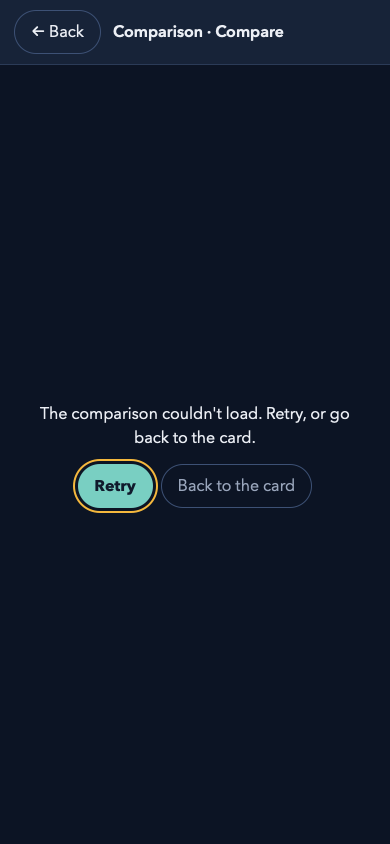
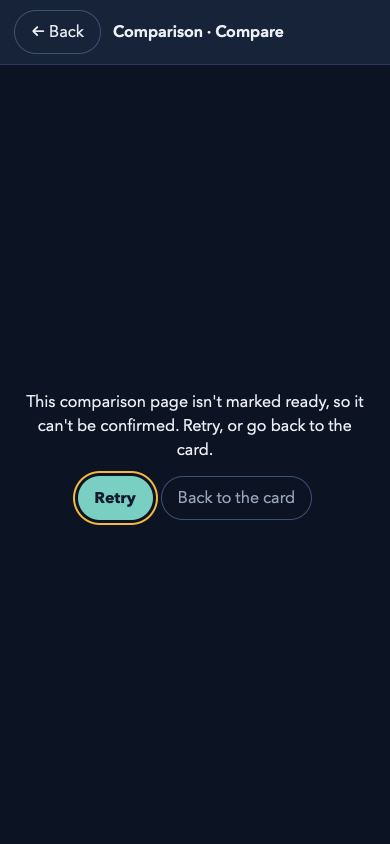
fix(audio-dashboard): use an explicit ready marker as WebKit comparison evidence
Review r1 on #987: the chart heuristic could be bypassed (a figure wrapping an
icon, a 25 px mark, visibility:hidden) and it rejected a real chart inside a
link. Replace the heuristic with an explicit marker. Without responseStatus,
success needs a readable same-origin frame whose page carries
<meta name="adash-comparison" content="ready"> or data-adash-comparison="ready"
on <html>. An error page never has the marker. Chromium keeps its 2xx/3xx
status rule. chartVisual and its exclusions are gone.

markComparisonReady() adds the marker to generated pages. build-dashboard
fails on a local comparison page without it, and SKILL.md and card-format.md
require it, with a one-line snippet.

Changed region(s): [[0.0615, 0.4621, 0.9231, 0.6469]]

diff --git a/skills/golem-powers/audio-dashboard/templates/decision-flow/decision-flow.js b/skills/golem-powers/audio-dashboard/templates/decision-flow/decision-flow.js
@@ -264,26 +264,18 @@
     return /[\u0000-\u001f\u007f]/.test(value)||/^\s*[\\/]/.test(value)||!inside?"":url.href;
   }
   // Browsers fire load, not error, for network failures and HTTP errors, so a load proves nothing alone.
-  // Success needs positive evidence from a readable same-origin frame: a navigation entry with a 2xx/3xx
-  // responseStatus where the browser reports one, or (WebKit has no responseStatus) a visual in the page.
-  // Anything else, including an unreadable file: frame, is a failure with Retry and Back.
-  // WebKit evidence must be a chart, not an icon. Mirrors the ADX-1 evidence gate's isControlIcon (a Node-side
-  // HTMLRewriter check that cannot run here): marks inside controls, hidden or presentational marks, icon/glyph
-  // classes, and anything rendered at 24x24 px or smaller do not count.
-  function chartVisual(doc){
-    return Array.prototype.some.call(doc.querySelectorAll("svg, canvas, img, figure, video"),function(node){
-      if(node.closest('[aria-hidden="true"], [role="presentation"], [role="none"], button, a, summary, [role="button"]'))return false;
-      for(var n=node;n&&n.nodeType===1;n=n.parentElement){if((n.getAttribute("class")||"").split(/\s+/).some(function(token){return /^(icon|glyph)([-_]|$)|[-_](icon|glyph)$/i.test(token);}))return false;}
-      var box=node.getBoundingClientRect();return box.width>24||box.height>24;
-    });
-  }
+  // Success needs positive evidence from a readable same-origin frame: a 2xx/3xx navigation responseStatus where
+  // the browser reports one, or, where it does not (WebKit), the page's explicit ready marker
+  // (<meta name="adash-comparison" content="ready"> or data-adash-comparison="ready" on <html>), which an
+  // error page never carries. Anything else, including an unreadable file: frame, is a failure.
+  function comparisonReady(doc){var meta=doc.querySelector('meta[name="adash-comparison"]');return Boolean(meta&&meta.getAttribute("content")==="ready")||doc.documentElement.getAttribute("data-adash-comparison")==="ready";}
   function frameProblem(frame){
     var failed=document.location.protocol==="file:"?"This comparison can't be checked from a file. Open the dashboard over http(s), or go back to the card.":"The comparison couldn't load. Retry, or go back to the card.";
     var timing=document.defaultView&&document.defaultView.PerformanceResourceTiming,reportsStatus=Boolean(timing&&"responseStatus" in timing.prototype);
     try{
       var child=frame.contentWindow;if(!child||child.location.href==="about:blank")return failed;
       if(reportsStatus){var nav=child.performance.getEntriesByType("navigation")[0],status=nav&&nav.responseStatus;return typeof status==="number"&&status>=200&&status<400?"":failed;}
-      return chartVisual(child.document)?"":failed;
+      return comparisonReady(child.document)?"":"This comparison page isn't marked ready, so it can't be confirmed. Retry, or go back to the card.";
     }catch(error){return failed;}
   }
   function loadCompare(){

diff --git a/skills/golem-powers/audio-dashboard/references/card-format.md b/skills/golem-powers/audio-dashboard/references/card-format.md
@@ -55,9 +55,14 @@ frame, and a late event from an earlier attempt is ignored.
 
 Browsers fire `load` for 404s and network failures, so a load alone is not
 success. The page must be readable and same-origin, and show a 2xx/3xx
-`responseStatus`, or contain a chart where the browser reports no status
-(WebKit). A comparison page should therefore carry its chart as svg, canvas,
-img, figure or video, as the View details gate already requires. Icons do not
-count: aria-hidden or presentational marks, marks inside buttons or links,
-icon/glyph classes, and anything 24x24 px or smaller. From a
+`responseStatus`, or, where the browser reports no status (WebKit), carry the
+ready marker. Every comparison page, hand-built or generated, must include this
+line in its head:
+
+```html
+<meta name="adash-comparison" content="ready">
+```
+
+`data-adash-comparison="ready"` on `<html>` also works. An error page never has
+the marker. `build-dashboard` fails when a local comparison page lacks it. From a
 `file:` dashboard the frame is unreadable and the dialog reports failure.

diff --git a/skills/golem-powers/audio-dashboard/SKILL.md b/skills/golem-powers/audio-dashboard/SKILL.md
@@ -332,9 +332,11 @@ a failure message with **Retry** and **Back** after a frame error or after
 `timeoutMs` (default 10000; per card, or the spec-level `comparisonTimeoutMs`).
 A load counts only with positive evidence from a readable same-origin frame: a
 2xx/3xx navigation `responseStatus`, or, where the browser has no such field
-(Safari/WebKit), a chart in the page: an svg, canvas, img, figure or video that
-is not an icon (aria-hidden, presentational, inside a control, an icon/glyph
-class, or 24x24 px or smaller).
+(Safari/WebKit), the page's ready marker. **Every comparison page must carry it**
+in its head: `<meta name="adash-comparison" content="ready">` (or
+`data-adash-comparison="ready"` on `<html>`). Error pages never have it, so they
+never pass. `markComparisonReady(html)` from `src/decision-flow.mjs` adds it to
+generated pages, and the build fails on a local comparison page without it.
 Serve the dashboard over http(s): from `file:` the frame cannot be checked, so
 the dialog shows the failure state. Back and Esc return focus to the opener.
 
